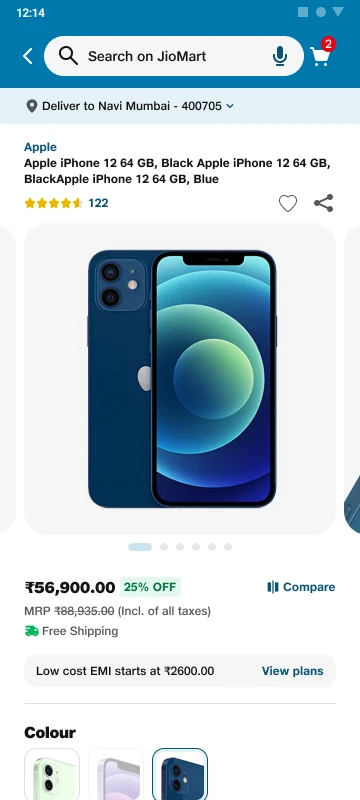
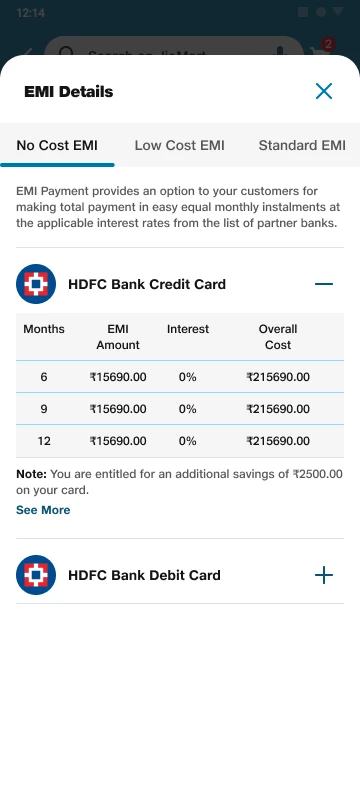
Deck v2: replace PDP/PLP walls with four tappable phones (filter, sort, pack size, EMI, details)
Claude-Session: https://claude.ai/code/session_01Hk7si3owCVDs4cH4zgK8o7

diff --git a/js/jiomart-deck-slides.js b/js/jiomart-deck-slides.js
@@ -397,83 +397,37 @@ window.DECK = {
     },
 
     /* ACROSS THE APP — every page type, Old → New, per category (new screens: blank frames until the final Figma) */
+    /* TAP THROUGH IT — four live phones: tap the pulsing spots to open the real sheets */
     {
-      section: "design", type: "screenwall",
-      eyebrow: "Across the app · Product page",
-      headline: ["PDP, every vertical"],
-      sub: "One product-page system for groceries, gadgets, fashion and beauty. Scroll sideways, and scroll inside any phone.",
-      labels: ["Old", "New"],
-      pairs: [
-        { k: "Grocery", tag: "S3 critical", tone: "neg", before: "enhance-problem-pdp.png", after: "new/pdp-grocery.webp",
-          saw: "Brand not highlighted; delivery date hidden behind a pincode; rating and CTA weak.",
-          proof: "Rated S3 / E2 in the {{23-issue audit|audit}}; breaks heuristics #3, #4 and #5.",
-          decided: "Brand above the name, rating under it, price, size and delivery above the fold." },
-        { k: "Electronics", beforeNote: "[ADD OLD SCREEN · Electronics PDP]", after: "new/pdp-electronics.webp",
-          saw: "EMI didn't look tappable; compare chart had no buy CTA; lots of white space.",
-          proof: "Same gaps on 4 of 4 audited verticals: brand, pincode wall, weak rating and CTA.",
-          decided: "[ADD · what changed on the Electronics PDP]" },
-        { k: "Mobiles", beforeNote: "[ADD OLD SCREEN · Mobile PDP]", after: "new/pdp-mobile.webp",
-          saw: "Colour and storage variants missing; specs text-heavy, main purpose not up front.",
-          proof: "Section-by-section comparison across Beauty, Electronics, Mobile and Fashion PDPs.",
-          decided: "[ADD · what changed on the Mobile PDP]" },
-        { k: "Fashion", beforeNote: "[ADD OLD SCREEN · Fashion PDP]", after: "new/pdp-fashion.webp",
-          saw: "Brand came after the product name; offers didn't look tappable; one font weight everywhere.",
-          proof: "Audit note on Fashion: \u201cbrand first, then the product name\u201d.",
-          decided: "[ADD · what changed on the Fashion PDP]" },
-        { k: "Beauty", beforeNote: "[ADD OLD SCREEN · Beauty PDP]", after: "new/pdp-beauty.webp",
-          saw: "Offers missing; wishlist badly placed; seller info and return policy not shown.",
-          proof: "Beauty PDP audit: gaps and pain points page.",
-          decided: "[ADD · what changed on the Beauty PDP]" },
-        { k: "Grocery · pack sizes", beforeNote: "[ADD OLD SCREEN · grocery sizes]", after: "new/pdp-grocery-b.webp",
-          saw: "Size options weren't visible on the first screen.", proof: "Variants missing or incomplete across verticals in the PDP comparison.",
-          decided: "Every pack size with its price, unit price and % off, right under the product." },
-        { k: "Product details", beforeNote: "[ADD OLD SCREEN · description]", after: "new/pdp-details.webp",
-          saw: "Description and specs didn't highlight the main purpose; text-heavy.", proof: "Flagged on 4 of 4 audited verticals.",
-          decided: "Description, Specifications and More info in tabs, led by key features." },
-        { k: "EMI options", beforeNote: "[ADD OLD SCREEN · EMI]", after: "new/pdp-emi.webp",
-          saw: "EMI didn't look tappable.", proof: "Flagged on Electronics, Mobile and Fashion PDPs in the audit.",
-          decided: "No cost, Low cost and Standard EMI in tabs, with a monthly table per bank." },
-        { k: "Ratings & reviews", before: "enhance-ba-pdp-reviews-before.png", after: "new/pdp-reviews.webp",
-          saw: "No review section; rating didn't read as intuitive.",
-          proof: "Reviews and ratings came up in field research and the audit.",
-          decided: "Rating summary, reviews with View all, likes and photo upload." }
+      section: "design", type: "proto",
+      eyebrow: "Across the app · Try it",
+      headline: ["Tap through it"],
+      sub: "Four screens from the final design. Tap a pulsing spot to open it, scroll inside any phone, and flip to Old to compare.",
+      phones: [
+        { k: "Grocery listing", img: "new/plp-grocery.webp", h: 800, old: "enhance-problem-plp.png",
+          hot: [
+            { x: 236, y: 140, w: 66, h: 30, open: "new/plp-filter.webp", label: "Filter" },
+            { x: 305, y: 140, w: 32, h: 30, open: "new/plp-sort.webp", label: "Sort" },
+            { x: 142, y: 362, w: 58, h: 28, open: "new/plp-grocery-variant.webp", label: "Pack size" }
+          ],
+          why: "Pick a pack size, filter or sort without leaving the list.", proof: "Listing rated S2 in the {{audit|audit}}: name and price only on the old card." },
+        { k: "Mobiles listing", img: "new/plp-electronics.webp", h: 978, old: "enhance-iter-mobile-before.png",
+          hot: [
+            { x: 236, y: 142, w: 66, h: 30, open: "new/plp-filter.webp", label: "Filter" },
+            { x: 305, y: 142, w: 32, h: 30, open: "new/plp-sort.webp", label: "Sort" }
+          ],
+          why: "Applied filters stay visible as chips; specs and rating on every card.", proof: "Filter & sort rated S2; {{5 leading apps|competitors}} show price and rating on the card." },
+        { k: "Grocery product", img: "new/pdp-grocery.webp", h: 4098, old: "enhance-problem-pdp.png",
+          hot: [],
+          why: "Brand, rating, price and every pack size before the fold.", proof: "PDP rated S3 critical in the {{audit|audit}}; brand hidden on 4 of 4 verticals." },
+        { k: "Electronics product", img: "new/pdp-electronics.webp", h: 4098,
+          hot: [
+            { x: 252, y: 656, w: 84, h: 30, open: "new/pdp-emi.webp", label: "EMI plans" },
+            { x: 24, y: 1941, w: 126, h: 34, open: "new/pdp-details.webp", label: "Details" }
+          ],
+          why: "EMI and full specs open in a sheet, so the page stays short.", proof: "EMI didn't look tappable on 3 of 4 audited verticals." }
       ],
-      notes: "This is the range. Every vertical had the same four problems in the audit: brand not highlighted, delivery behind a pincode, weak rating, weak CTA. One product-page system fixed them for groceries, gadgets, fashion and beauty. Each card says what we saw, the proof, and what we decided. Click any old screen to enlarge it."
-    },
-
-    {
-      section: "design", type: "screenwall",
-      eyebrow: "Across the app · Listing page",
-      headline: ["PLP, every vertical"],
-      sub: "The same card everywhere, so shoppers compare instead of read. Scroll inside any phone.",
-      labels: ["Old", "New"],
-      pairs: [
-        { k: "Grocery", tag: "S2", before: "enhance-problem-plp.png", after: "new/plp-grocery.webp",
-          saw: "Name and price only; the + button silently stopped at max quantity.",
-          proof: "Listing page rated S2 / E2 (#5 Error prevention) in the {{audit|audit}}.",
-          decided: "Discount, unit price, size and wishlist on every card; feedback at max quantity." },
-        { k: "Mobiles & electronics", before: "enhance-iter-mobile-before.png", after: "new/plp-electronics.webp",
-          saw: "Every card showed different info; selected filters barely visible.",
-          proof: "Filter & sort rated S2 in the audit; {{5 leading apps|competitors}} show price and rating on cards.",
-          decided: "[ADD · what changed on the Electronics PLP]" },
-        { k: "Fashion", beforeNote: "[ADD OLD SCREEN · Fashion PLP]", after: "new/plp-fashion.webp",
-          saw: "[ADD · audit finding for Fashion listing]", proof: "[ADD · data or field evidence]", decided: "[ADD · what changed]" },
-        { k: "Beauty", beforeNote: "[ADD OLD SCREEN · Beauty PLP]", after: "new/plp-beauty-grid.webp",
-          saw: "[ADD · audit finding for Beauty listing]", proof: "[ADD · data or field evidence]", decided: "[ADD · what changed]" },
-        { k: "Beauty · list view", beforeNote: "[ADD OLD SCREEN · Beauty list]", after: "new/plp-beauty-list.webp",
-          saw: "[ADD · audit finding]", proof: "[ADD · data or field evidence]", decided: "A list view next to the grid, with shade swatches on every card." },
-        { k: "Select pack size", beforeNote: "[ADD OLD SCREEN · variant picker]", after: "new/plp-grocery-variant.webp",
-          saw: "[ADD · audit finding on variants]", proof: "[ADD · data or field evidence]", decided: "Pick a pack size from the list in a sheet, with price per size, without opening the product." },
-        { k: "Sort & filter", beforeNote: "[ADD OLD SCREEN · filters]", after: "new/plp-filter.webp",
-          saw: "Selected filters barely visible.", proof: "Filter & sort rated S2 in the {{audit|audit}}.", decided: "[ADD · what changed in sort and filter]" },
-        { k: "Sort", beforeNote: "[ADD OLD SCREEN · sort]", after: "new/plp-sort.webp",
-          saw: "Selected filters barely visible.", proof: "Filter & sort rated S2 in the {{audit|audit}}.", decided: "[ADD · what changed in sort]" },
-        { k: "Wishlist test", tag: "9 of 12", tone: "pos", beforeNote: "[ADD OLD SCREEN · wishlist]", afterNote: "[ADD NEW SCREEN · final Figma]",
-          saw: "Shoppers needed to save products while comparing.",
-          proof: "{{9 of 12|usability}} completed the save-to-wishlist task in the usability test.",
-          decided: "Wishlist on the card, then iterated so the icon was easier to spot." }
-      ],
-      notes: "Listing pages are where comparison happens, so every vertical got the same card: price, MRP, % off, unit price, size, wishlist. The usability test backs it: 9 of 12 completed the wishlist task, and we iterated the icon after."
+      notes: "Let the panel try it. Tap Filter, Sort or the pack size on the grocery list; tap View plans or View details on the phone page. Flip any phone to Old to see what it replaced. Every sheet is the real design, not a mock-up."
     },
 
     {
@@ -590,6 +544,85 @@ window.DECK = {
   ],
   /* parked slides (not shown): kept for later use */
   parked: [
+    {
+      section: "design", type: "screenwall",
+      eyebrow: "Across the app · Product page",
+      headline: ["PDP, every vertical"],
+      sub: "One product-page system for groceries, gadgets, fashion and beauty. Scroll sideways, and scroll inside any phone.",
+      labels: ["Old", "New"],
+      pairs: [
+        { k: "Grocery", tag: "S3 critical", tone: "neg", before: "enhance-problem-pdp.png", after: "new/pdp-grocery.webp",
+          saw: "Brand not highlighted; delivery date hidden behind a pincode; rating and CTA weak.",
+          proof: "Rated S3 / E2 in the {{23-issue audit|audit}}; breaks heuristics #3, #4 and #5.",
+          decided: "Brand above the name, rating under it, price, size and delivery above the fold." },
+        { k: "Electronics", beforeNote: "[ADD OLD SCREEN · Electronics PDP]", after: "new/pdp-electronics.webp",
+          saw: "EMI didn't look tappable; compare chart had no buy CTA; lots of white space.",
+          proof: "Same gaps on 4 of 4 audited verticals: brand, pincode wall, weak rating and CTA.",
+          decided: "[ADD · what changed on the Electronics PDP]" },
+        { k: "Mobiles", beforeNote: "[ADD OLD SCREEN · Mobile PDP]", after: "new/pdp-mobile.webp",
+          saw: "Colour and storage variants missing; specs text-heavy, main purpose not up front.",
+          proof: "Section-by-section comparison across Beauty, Electronics, Mobile and Fashion PDPs.",
+          decided: "[ADD · what changed on the Mobile PDP]" },
+        { k: "Fashion", beforeNote: "[ADD OLD SCREEN · Fashion PDP]", after: "new/pdp-fashion.webp",
+          saw: "Brand came after the product name; offers didn't look tappable; one font weight everywhere.",
+          proof: "Audit note on Fashion: \u201cbrand first, then the product name\u201d.",
+          decided: "[ADD · what changed on the Fashion PDP]" },
+        { k: "Beauty", beforeNote: "[ADD OLD SCREEN · Beauty PDP]", after: "new/pdp-beauty.webp",
+          saw: "Offers missing; wishlist badly placed; seller info and return policy not shown.",
+          proof: "Beauty PDP audit: gaps and pain points page.",
+          decided: "[ADD · what changed on the Beauty PDP]" },
+        { k: "Grocery · pack sizes", beforeNote: "[ADD OLD SCREEN · grocery sizes]", after: "new/pdp-grocery-b.webp",
+          saw: "Size options weren't visible on the first screen.", proof: "Variants missing or incomplete across verticals in the PDP comparison.",
+          decided: "Every pack size with its price, unit price and % off, right under the product." },
+        { k: "Product details", beforeNote: "[ADD OLD SCREEN · description]", after: "new/pdp-details.webp",
+          saw: "Description and specs didn't highlight the main purpose; text-heavy.", proof: "Flagged on 4 of 4 audited verticals.",
+          decided: "Description, Specifications and More info in tabs, led by key features." },
+        { k: "EMI options", beforeNote: "[ADD OLD SCREEN · EMI]", after: "new/pdp-emi.webp",
+          saw: "EMI didn't look tappable.", proof: "Flagged on Electronics, Mobile and Fashion PDPs in the audit.",
+          decided: "No cost, Low cost and Standard EMI in tabs, with a monthly table per bank." },
+        { k: "Ratings & reviews", before: "enhance-ba-pdp-reviews-before.png", after: "new/pdp-reviews.webp",
+          saw: "No review section; rating didn't read as intuitive.",
+          proof: "Reviews and ratings came up in field research and the audit.",
+          decided: "Rating summary, reviews with View all, likes and photo upload." }
+      ],
+      notes: "This is the range. Every vertical had the same four problems in the audit: brand not highlighted, delivery behind a pincode, weak rating, weak CTA. One product-page system fixed them for groceries, gadgets, fashion and beauty. Each card says what we saw, the proof, and what we decided. Click any old screen to enlarge it."
+    },
+
+    {
+      section: "design", type: "screenwall",
+      eyebrow: "Across the app · Listing page",
+      headline: ["PLP, every vertical"],
+      sub: "The same card everywhere, so shoppers compare instead of read. Scroll inside any phone.",
+      labels: ["Old", "New"],
+      pairs: [
+        { k: "Grocery", tag: "S2", before: "enhance-problem-plp.png", after: "new/plp-grocery.webp",
+          saw: "Name and price only; the + button silently stopped at max quantity.",
+          proof: "Listing page rated S2 / E2 (#5 Error prevention) in the {{audit|audit}}.",
+          decided: "Discount, unit price, size and wishlist on every card; feedback at max quantity." },
+        { k: "Mobiles & electronics", before: "enhance-iter-mobile-before.png", after: "new/plp-electronics.webp",
+          saw: "Every card showed different info; selected filters barely visible.",
+          proof: "Filter & sort rated S2 in the audit; {{5 leading apps|competitors}} show price and rating on cards.",
+          decided: "[ADD · what changed on the Electronics PLP]" },
+        { k: "Fashion", beforeNote: "[ADD OLD SCREEN · Fashion PLP]", after: "new/plp-fashion.webp",
+          saw: "[ADD · audit finding for Fashion listing]", proof: "[ADD · data or field evidence]", decided: "[ADD · what changed]" },
+        { k: "Beauty", beforeNote: "[ADD OLD SCREEN · Beauty PLP]", after: "new/plp-beauty-grid.webp",
+          saw: "[ADD · audit finding for Beauty listing]", proof: "[ADD · data or field evidence]", decided: "[ADD · what changed]" },
+        { k: "Beauty · list view", beforeNote: "[ADD OLD SCREEN · Beauty list]", after: "new/plp-beauty-list.webp",
+          saw: "[ADD · audit finding]", proof: "[ADD · data or field evidence]", decided: "A list view next to the grid, with shade swatches on every card." },
+        { k: "Select pack size", beforeNote: "[ADD OLD SCREEN · variant picker]", after: "new/plp-grocery-variant.webp",
+          saw: "[ADD · audit finding on variants]", proof: "[ADD · data or field evidence]", decided: "Pick a pack size from the list in a sheet, with price per size, without opening the product." },
+        { k: "Sort & filter", beforeNote: "[ADD OLD SCREEN · filters]", after: "new/plp-filter.webp",
+          saw: "Selected filters barely visible.", proof: "Filter & sort rated S2 in the {{audit|audit}}.", decided: "[ADD · what changed in sort and filter]" },
+        { k: "Sort", beforeNote: "[ADD OLD SCREEN · sort]", after: "new/plp-sort.webp",
+          saw: "Selected filters barely visible.", proof: "Filter & sort rated S2 in the {{audit|audit}}.", decided: "[ADD · what changed in sort]" },
+        { k: "Wishlist test", tag: "9 of 12", tone: "pos", beforeNote: "[ADD OLD SCREEN · wishlist]", afterNote: "[ADD NEW SCREEN · final Figma]",
+          saw: "Shoppers needed to save products while comparing.",
+          proof: "{{9 of 12|usability}} completed the save-to-wishlist task in the usability test.",
+          decided: "Wishlist on the card, then iterated so the icon was easier to spot." }
+      ],
+      notes: "Listing pages are where comparison happens, so every vertical got the same card: price, MRP, % off, unit price, size, wishlist. The usability test backs it: 9 of 12 completed the wishlist task, and we iterated the icon after."
+    },
+
     /* 10 — SOLUTION & DESIGN EXECUTION (mockups unchanged) */
     {
       section: "design", type: "showcase",

diff --git a/js/jiomart-deck.js b/js/jiomart-deck.js
@@ -123,6 +123,7 @@
       case "pair": return 0;
       case "pricecue": return sc.cards.length;
       case "screenwall": return 0;
+      case "proto": return 0;
       case "pushback": return sc.rows.length;
       case "nowlens": return 2;
       case "audience": return sc.stats.length;
@@ -764,6 +765,24 @@
         "<div class='sw-track' tabindex='0'>" + pairs + "</div></div>";
     },
 
+    /* four tappable phones: hotspots open the real sheets inside the phone; Old/New flips the screen */
+    proto: function (sc) {
+      var phones = sc.phones.map(function (p, i) {
+        var hot = (p.hot || []).map(function (h) {
+          return "<button type='button' class='pt-hot' data-open='" + img(h.open) + "' aria-label='" + esc(h.label) + "' style='left:" + (h.x / 3.6) + "%;top:" + (h.y / p.h * 100) + "%;width:" + (h.w / 3.6) + "%;height:" + (h.h / p.h * 100) + "%'><i></i><span>" + esc(h.label) + "</span></button>";
+        }).join("");
+        var tog = p.old ? "<div class='pt-tog' role='group'><button type='button' data-v='old'>Old</button><button type='button' data-v='new' class='on'>New</button></div>" : "<div class='pt-tog none'><span>New</span></div>";
+        return "<article class='pt-card'><div class='pt-k'><b>" + esc(p.k) + "</b>" + tog + "</div>" +
+          "<div class='device pt-dev'><div class='dn'></div><div class='ds'><div class='pt-scroll'>" +
+          "<div class='pt-view new on'><img src='" + img(p.img) + "' alt='" + esc(p.k) + ", new'>" + hot + "</div>" +
+          (p.old ? "<div class='pt-view old'><img src='" + img(p.old) + "' alt='" + esc(p.k) + ", old' loading='lazy'></div>" : "") +
+          "</div><div class='pt-sheet' hidden><img alt=''><button type='button' class='pt-x' aria-label='Close'>✕</button></div></div></div>" +
+          "<div class='pt-why'><p>" + esc(p.why) + "</p>" + (p.proof ? "<small>" + esc(p.proof) + "</small>" : "") + "</div>" +
+          ((p.hot || []).length ? "<div class='pt-hint'>Tap: " + p.hot.map(function (h) { return esc(h.label); }).join(" · ") + "</div>" : "<div class='pt-hint'>Scroll inside the phone</div>") + "</article>";
+      }).join("");
+      return "<div class='sl proto'><div class='sl-head'><div class='eyebrow'>" + esc(sc.eyebrow) + "</div>" + L(sc.headline, "h2") + sub(sc.sub) + "</div><div class='pt-grid'>" + phones + "</div></div>";
+    },
+
     /* moments where design held its position: what product wanted, what I proposed, the evidence, the outcome */
     pushback: function (sc) {
       var hd = sc.heads || ["Moment", "Product wanted", "I proposed", "Evidence I used", "Outcome"];
@@ -1364,6 +1383,23 @@
     if (shot) {
       var sh = (slides[index].define || {}).shots || [];
       openGallery(sh.map(function (x) { return { src: img(x.img), cap: x.k, title: x.k, pain: x.pain }; }), parseInt(shot.getAttribute("data-shot"), 10) || 0);
+      return;
+    }
+    var pth = e.target.closest(".pt-hot");
+    if (pth) {
+      var dev = pth.closest(".pt-dev"), shp = dev.querySelector(".pt-sheet");
+      shp.querySelector("img").src = pth.getAttribute("data-open"); shp.hidden = false;
+      requestAnimationFrame(function () { shp.classList.add("on"); });
+      return;
+    }
+    var pts = e.target.closest(".pt-sheet");
+    if (pts) { pts.classList.remove("on"); setTimeout(function () { pts.hidden = true; }, 260); return; }
+    var ptt = e.target.closest(".pt-tog button");
+    if (ptt) {
+      var card = ptt.closest(".pt-card"), v = ptt.getAttribute("data-v");
+      card.querySelectorAll(".pt-tog button").forEach(function (b) { b.classList.toggle("on", b === ptt); });
+      card.querySelectorAll(".pt-view").forEach(function (x) { x.classList.toggle("on", x.classList.contains(v)); });
+      card.querySelector(".pt-scroll").scrollTop = 0;
       return;
     }
     var swb = e.target.closest(".sw-btn");

diff --git a/css/jiomart-deck.css b/css/jiomart-deck.css
@@ -1713,3 +1713,36 @@ body.deck[data-theme="light"] .kp-bar.post, body.deck[data-theme="light"] .im-ba
 .sw-phones .device:not(.pending) .ds { overflow-y: auto; overscroll-behavior: contain; scrollbar-width: none; }
 .sw-phones .device:not(.pending) .ds::-webkit-scrollbar { display: none; }
 .sw-phones .device .ds img { display: block; width: 100%; height: auto; transform: none !important; transition: none; }
+
+/* Tap through it: four live phones */
+.proto .pt-grid { display: grid; grid-template-columns: repeat(4, minmax(0,1fr)); gap: clamp(14px,1.8vw,28px); margin-top: clamp(14px,2.4vh,28px); }
+.pt-card { display: flex; flex-direction: column; align-items: center; gap: 10px; }
+.pt-k { width: 100%; display: flex; align-items: center; justify-content: space-between; gap: 8px; }
+.pt-k b { font-size: clamp(13px,1vw,15px); color: var(--ink); }
+.pt-tog { display: inline-flex; background: var(--panel); border: 1px solid var(--panel-line); border-radius: 999px; padding: 2px; }
+.pt-tog button, .pt-tog span { border: 0; background: none; font: inherit; font-size: 11px; font-weight: 700; letter-spacing: .04em; padding: 4px 10px; border-radius: 999px; color: var(--dim); cursor: pointer; }
+.pt-tog button.on { background: var(--ink); color: var(--bg, #fff); }
+.pt-tog.none span { color: var(--info); cursor: default; }
+.pt-dev { --w: clamp(170px, 14.5vw, 232px); }
+.pt-dev .ds { position: relative; }
+.pt-scroll { position: absolute; inset: 0; overflow-y: auto; overscroll-behavior: contain; scrollbar-width: none; }
+.pt-scroll::-webkit-scrollbar { display: none; }
+.pt-view { display: none; position: relative; }
+.pt-view.on { display: block; }
+.pt-view img { display: block; width: 100%; height: auto; }
+.pt-hot { position: absolute; border: 0; padding: 0; background: transparent; border-radius: 8px; cursor: pointer; }
+.pt-hot i { position: absolute; right: -4px; top: -4px; width: 12px; height: 12px; border-radius: 50%; background: var(--info); box-shadow: 0 0 0 0 rgba(0,120,173,.55); animation: ptPulse 1.6s infinite; }
+.pt-hot span { position: absolute; left: 50%; bottom: calc(100% + 6px); transform: translateX(-50%); white-space: nowrap; font-size: 10px; font-weight: 700; color: #fff; background: #111; padding: 3px 7px; border-radius: 6px; opacity: 0; transition: opacity .2s; pointer-events: none; }
+.pt-hot:hover { box-shadow: 0 0 0 2px var(--info); }
+.pt-hot:hover span { opacity: 1; }
+@keyframes ptPulse { 0% { box-shadow: 0 0 0 0 rgba(0,120,173,.55); } 70% { box-shadow: 0 0 0 10px rgba(0,120,173,0); } 100% { box-shadow: 0 0 0 0 rgba(0,120,173,0); } }
+.pt-sheet { position: absolute; inset: 0; z-index: 4; background: #fff; overflow-y: auto; cursor: pointer; opacity: 0; transform: translateY(18%); transition: opacity .25s var(--ease), transform .3s var(--ease); scrollbar-width: none; }
+.pt-sheet.on { opacity: 1; transform: none; }
+.pt-sheet img { display: block; width: 100%; height: auto; }
+.pt-x { position: absolute; top: 8px; right: 8px; width: 24px; height: 24px; border-radius: 50%; border: 0; background: rgba(0,0,0,.6); color: #fff; font-size: 11px; cursor: pointer; }
+.pt-why { width: 100%; }
+.pt-why p { margin: 0; font-size: 13px; line-height: 1.4; color: var(--ink); font-weight: 600; }
+.pt-why small { display: block; margin-top: 4px; font-size: 11px; line-height: 1.4; color: var(--dim); }
+.pt-hint { width: 100%; font-size: 10.5px; font-weight: 700; letter-spacing: .06em; text-transform: uppercase; color: var(--info); }
+@media (max-width: 1000px) { .proto .pt-grid { grid-template-columns: repeat(2, minmax(0,1fr)); } }
+@media (max-width: 560px) { .proto .pt-grid { grid-template-columns: 1fr; } .pt-dev { --w: 240px; } }

diff --git a/jiomart-deck.html b/jiomart-deck.html
@@ -10,7 +10,7 @@
       href="https://fonts.googleapis.com/css2?family=Poppins:wght@400;500;600;700;800&family=Caveat:wght@600&display=swap"
       rel="stylesheet"
     />
-    <link rel="stylesheet" href="css/jiomart-deck.css?v=145" />
+    <link rel="stylesheet" href="css/jiomart-deck.css?v=146" />
   <link rel="stylesheet" href="./css/shimmer.css" />
   <link href="./css/gate.css?v=2" rel="stylesheet" />
 <script src="./js/shimmer.js"></script>
@@ -58,8 +58,8 @@
       </aside>
     </div>
 
-    <script src="js/jiomart-deck-slides.js?v=159"></script>
-    <script src="js/jiomart-deck.js?v=145"></script>
+    <script src="js/jiomart-deck-slides.js?v=161"></script>
+    <script src="js/jiomart-deck.js?v=146"></script>
     <script src="./js/gate.js?v=3"></script>
   </body>
 </html>
